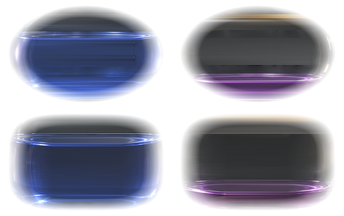
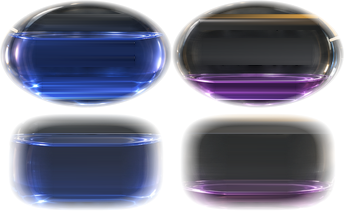
移除标准舷窗周额度文字并校准固定外壳和异形液体材质

Changed region(s): [[0.0, 0.0, 1.0, 0.5], [0.7267, 0.2778, 0.7558, 0.3056]]

diff --git a/src/GeminiTwinChambers.tsx b/src/GeminiTwinChambers.tsx
@@ -21,11 +21,16 @@ interface GeminiTwinChambersProps {
   reducedMotion: boolean;
 }
 
+function quotaLabel(source: Source, period: GeminiPeriod, reading: GeminiReading) {
+  const amount = reading.value === null ? "未读"
+    : (reading.stale ? "上次剩余 " : "剩余 ") + Number(reading.value.toFixed(1)) + "%";
+  return `${source.name} ${periodLabel[period]}，${amount}`;
+}
+
 function QuotaValue({ source, period, reading }: { source: Source; period: GeminiPeriod; reading: GeminiReading }) {
   const percent = reading.value === null ? null : Number(reading.value.toFixed(1)) + "%";
-  const label = percent === null ? "未读" : (reading.stale ? "上次剩余 " : "剩余 ") + percent;
   return <span className="twin-value" data-group={source.key} data-period={period} role="img"
-    aria-label={`${source.name} ${periodLabel[period]}，${label}`}>
+    aria-label={quotaLabel(source, period, reading)}>
     {percent ?? "—"}{reading.stale && percent !== null && <small className="twin-old">上次</small>}
   </span>;
 }
@@ -42,11 +47,13 @@ const ticks = Array.from({ length: 21 }, (_, i) =>
 const standardArc = "M6,51 A61,46 0 0 1 128,51";
 const narrowArc = "M1.5 12 C1.5 4.4 1.5 1.45 5.7 1.4 Q40 .8 74.3 1.4 C78.5 1.45 78.5 4.4 78.5 12";
 
-function WeekScale({ reading, collapsed }: { reading: GeminiReading; collapsed: boolean }) {
+function WeekScale({ reading, collapsed, source }: { reading: GeminiReading; collapsed: boolean; source: Source }) {
   const { value, stale } = reading;
   const arc = collapsed ? narrowArc : standardArc;
   const fraction = (value ?? 0) / 100;
-  return <svg className="twin-scale" aria-hidden="true" viewBox={collapsed ? "0 0 80 46" : "0 0 134 86"}
+  return <svg className="twin-scale" aria-hidden={collapsed || undefined} role={collapsed ? undefined : "img"}
+    aria-label={collapsed ? undefined : quotaLabel(source, "weekly", reading)}
+    viewBox={collapsed ? "0 0 80 46" : "0 0 134 86"}
     preserveAspectRatio="none">
     <path className="twin-rail" d={arc} pathLength={collapsed ? 100 : undefined}
       strokeDasharray={value === null ? (collapsed ? "1.5 3" : "1.4 2.4") : undefined} />
@@ -78,11 +85,11 @@ function SourceInstrument({ source, pools, firstReadPending, collapsed, motion, 
           accent={source.accent} motionSeed={source.seed} motion={motion} reducedMotion={reducedMotion || five.value === null}
           twinGauge={collapsed ? "narrow" : "standard"} />}
       </span>
-      <WeekScale reading={week} collapsed={collapsed} />
+      <WeekScale reading={week} collapsed={collapsed} source={source} />
     </>}
     <b className="twin-source">{isWeb && collapsed ? "Web" : source.name}</b>
     {collapsed ? <>{row("weekly", week)}{row("fiveHour", five)}</>
-      : <>{row("fiveHour", five)}{row("weekly", week)}</>}
+      : <>{row("fiveHour", five)}{isWeb && row("weekly", week)}</>}
   </span>;
 }
 

diff --git a/src/GeminiTwinChambers.css b/src/GeminiTwinChambers.css
@@ -43,9 +43,10 @@
 }
 .gemini-twin--standard .twin-dial[data-pool="partner"]::before { background-position: right center }
 .gemini-twin--standard .twin-cavity {
-  inset: 8% 5.25% 4%; border-radius: 50% / 49%;
+  inset: 8% 5.25% 1%; border-radius: 50% / 49%;
   box-shadow: 0 0 0 1px #121719, 0 0 0 2px #9aa7b338;
 }
+.gemini-twin--standard .twin-dial[data-pool="partner"] .twin-cavity { inset-inline: 4.25% }
 .gemini-twin--standard .twin-cavity::after {
   box-shadow: inset 0 1px 2px #020914a0;
 }
@@ -55,7 +56,7 @@
 .gemini-twin--standard .twin-fill { stroke: #efb75e; stroke-width: 2.3 }
 .gemini-twin--standard .twin-ticks { stroke: #f0d3a48c; stroke-width: .68 }
 .gemini-twin--standard .twin-marker { stroke: #fff6d5; stroke-width: 2.7; stroke-linecap: round; filter: drop-shadow(0 0 1px #23180b) }
-.gemini-twin--standard .twin-dial > :is(.twin-source, .twin-five, .twin-week) {
+.gemini-twin--standard .twin-dial > :is(.twin-source, .twin-five) {
   position: absolute; left: 50%; transform: translateX(-50%); z-index: 1;
   line-height: 1; white-space: nowrap; text-shadow: 0 1px 2px #090e1b, 0 0 3px #090e1b;
 }
@@ -68,14 +69,7 @@
 .gemini-twin--standard .twin-dial > .twin-five { top: 34px; margin-left: 3px; text-shadow: 0 1px 2px #07101a, 0 0 3px #07101a }
 .gemini-twin--standard .twin-five .twin-value { font: italic 21.5px/1 Georgia, serif; color: #f8eddd; font-variant-numeric: lining-nums tabular-nums }
 .gemini-twin--standard .twin-key { color: #e2e9ec; font: 500 8.5px/1 "Segoe UI", "Microsoft YaHei UI", sans-serif; white-space: nowrap }
-.gemini-twin--standard .twin-dial .twin-week {
-  bottom: 5px; gap: 5px; padding: 1px 7px 2px; border-radius: 6px;
-  background: linear-gradient(#1a2731f5, #101a22fa);
-  box-shadow: inset 0 1px #b5b4a04a, inset 0 -1px #b9c3c025, 0 1px 2px #050a10aa;
-}
-.gemini-twin--standard .twin-dial .twin-week:has(.twin-old) { gap: 3px; padding-inline: 5px }
 .gemini-twin--standard .twin-week .twin-key { color: #edcd91 }
-.gemini-twin--standard .twin-week .twin-value { color: #e6bf8b; font: italic 12.5px/1 Georgia, serif; font-variant-numeric: lining-nums tabular-nums }
 .gemini-twin--standard .twin-plaque {
   display: grid; align-items: center; grid-template-columns: max-content 1fr 1fr; gap: 7px;
   width: 96%; margin: 0 auto; padding: 0 9px;

diff --git a/src/twinGlass.ts b/src/twinGlass.ts
@@ -79,7 +79,7 @@ export function drawBakedTwinGlass(
     const position = meniscusPosition(frame / 50, narrow);
     const meniscus = position * height;
     context.save();
-    context.globalAlpha = .96;
+    context.globalAlpha = narrow ? .96 : Math.min(1, frame / 3, (51 - frame) / 2);
     context.globalCompositeOperation = "source-atop";
     const cavityX = Number(violet) * tileWidth + sourceLeft;
     const cavityY = narrow ? tileHeight : 0;
@@ -101,7 +101,7 @@ export function drawBakedTwinGlass(
       context.beginPath();
       context.rect(left, 0, right - left, height);
       context.clip();
-      context.globalAlpha = .5;
+      context.globalAlpha = narrow ? .5 : .19;
       context.globalCompositeOperation = "source-atop";
       const row = (narrow ? 2 : 0) + Number(violet);
       context.drawImage(texture.waterline, 0, row * 16, tileWidth, 16,
@@ -114,10 +114,10 @@ export function drawBakedTwinGlass(
   context.globalCompositeOperation = "source-atop";
   const foot = 4 + (narrow ? 2 : 0) + Number(violet);
   const sampleHeight = height * (narrow ? .22 : .28);
-  context.globalAlpha = Math.min(1, Math.max(0, percent / 21));
+  context.globalAlpha = Math.min(1, Math.max(0, percent / 21)) * (narrow ? 1 : .35);
   context.drawImage(texture.waterline, 0, foot * 16, tileWidth, 16,
     width * .07, height * .95 - sampleHeight, width * .86, sampleHeight);
-  context.globalAlpha = 1;
+  context.globalAlpha = narrow ? 1 : .34;
   context.drawImage(texture.reflections, violet ? tileWidth : 0, layout === "narrow" ? tileHeight : 0,
     tileWidth, tileHeight, 0, 0, width, height);
   context.restore();

diff --git a/src/App.test.tsx b/src/App.test.tsx
@@ -1065,6 +1065,8 @@ describe("Gemini quota source", () => {
       "AG Claude/GPT 5 小时，剩余 24.5%", "AG Claude/GPT 一周，剩余 90%"]) {
       expect(screen.getByRole("img", { name })).toBeVisible();
     }
+    expect(screen.getByRole("img", { name: "AG Gemini 一周，剩余 0%" })).not.toHaveTextContent(/一周|0%/);
+    expect(screen.getByRole("img", { name: "Gemini Web 一周，剩余 75%" })).toHaveTextContent("75%");
     fireEvent.click(screen.getByRole("button", { name: "刷新" }));
     await screen.findByRole("img", { name: "Gemini Web 5 小时，上次剩余 42%" });
     expect(screen.getByRole("img", { name: "Gemini Web 一周，上次剩余 75%" })).toBeVisible();

diff --git a/src/GeminiQuotaSurface.css b/src/GeminiQuotaSurface.css
@@ -96,6 +96,15 @@ body:has(.app-frame--gemini),
   opacity: var(--twin-alpha);
   pointer-events: none;
 }
+.gemini-twin-surface:not(.gemini-twin-surface--narrow)::after {
+  position: absolute;
+  inset: 0;
+  z-index: 2;
+  content: "";
+  background: url("./twin-glass-housing.webp") center / 100% 100% no-repeat;
+  opacity: var(--twin-alpha);
+  pointer-events: none;
+}
 .gemini-twin-footer {
   position: relative;
   isolation: isolate;

diff --git a/scripts/compare-gemini-standard-no-week.py b/scripts/compare-gemini-standard-no-week.py
@@ -1,0 +1,57 @@
+"""Recheck the standard Windows float after removing the two AG weekly badges."""
+import argparse
+import json
+from pathlib import Path
+from statistics import median
+
+from PIL import Image, ImageChops, ImageDraw, ImageStat
+
+
+def erase_badges(reference):
+    revised = reference.copy()
+    # Native 300 × 130 coordinates. Sample only the original glass to either
+    # side of each approved badge. The rest of the artwork stays byte-identical.
+    for left, top, right, bottom in ((48, 65, 107, 81), (192, 65, 253, 81)):
+        patch = Image.new("RGB", (right - left, bottom - top))
+        for y in range(top, bottom):
+            neighbors = ((left - 3, left), (right, right + 3))
+            start, end = [
+                tuple(median(channel) for channel in zip(*(reference.getpixel((x, y)) for x in range(*side))))
+                for side in neighbors
+            ]
+            for x in range(left, right):
+                fraction = (x - left) / (patch.width - 1)
+                pixel = tuple(round(a + (b - a) * fraction) for a, b in zip(start, end))
+                patch.putpixel((x - left, y - top), pixel)
+        mask = Image.new("L", patch.size)
+        ImageDraw.Draw(mask).rounded_rectangle((0, 0, patch.width - 1, patch.height - 1), radius=6, fill=255)
+        revised.paste(patch, (left, top), mask)
+    return revised
+
+
+def measure(actual, reference):
+    difference = ImageChops.difference(actual, reference)
+    pixels = actual.width * actual.height
+    return {
+        "meanRGBChannelAbsoluteDifference": sum(ImageStat.Stat(difference).mean) / 3,
+        "differentPixels": sum(count for count, rgb in difference.getcolors(pixels) if any(rgb)),
+        "comparedPixels": pixels,
+    }
+
+
+parser = argparse.ArgumentParser(description=__doc__)
+parser.add_argument("capture_folder", type=Path)
+folder = parser.parse_args().capture_folder
+with Image.open(folder / "ready-standard-approved.png") as image:
+    reference = image.convert("RGB")
+with Image.open(folder / "ready-standard-actual.png") as image:
+    actual = image.convert("RGB")
+if actual.size != (300, 130) or reference.size != actual.size:
+    parser.error("expected matching 300 × 130 native standard captures")
+
+revised = erase_badges(reference)
+revised.save(folder / "ready-standard-without-badges-approved.png")
+results = {"originalTarget": measure(actual, reference), "targetWithoutTwoBadges": measure(actual, revised)}
+report = json.dumps(results, indent=2) + "\n"
+(folder / "standard-channel-error.json").write_text(report, encoding="utf-8")
+print(report, end="")

diff --git a/scripts/bake-twin-reflections.py b/scripts/bake-twin-reflections.py
@@ -118,6 +118,25 @@ for y in range(90):
         shell.putpixel((x, y), (*rgb, round(255 * opacity)))
 shell.save(root / "src/twin-glass-shell.webp", lossless=True, method=6)
 
+# Register the fixed outside band to the window. Keep a clear gap around
+# the moving gold scales and leave the transparent desktop corners alone.
+housing = Image.new("RGBA", panel.size)
+for y in range(130):
+    for x in range(300):
+        red, green, blue = panel.getpixel((x, y))
+        radius = min(math.hypot((x+.5-center)/72, (y+.5-45)/43) for center in (77, 223))
+        if y < 90:
+            wall = ramp(radius, .88 if y >= 55 else .955, .91 if y >= 55 else .975)
+        else:
+            # Only the separators and exterior edges below the dials are fixed.
+            wall = float(y in (90, 91, 108, 109, 110, 111, 125, 126, 127, 128, 129) or x < 12 or x >= 290)
+        corners = math.hypot(max(0, 17-min(x+.5,299.5-x)), max(0, 17-min(y+.5,129.5-y)))
+        alpha = wall * (1-ramp(corners, 14.5, 16))
+        if radius < 1 and y < 55 and red - min(green, blue) > 18:
+            alpha = 0
+        housing.putpixel((x,y), (red,green,blue,round(255*alpha)))
+housing.save(root / "src/twin-glass-housing.webp", lossless=True, method=6)
+
 compact = sheet.crop((194, 626, 1577, 852)).resize((260, 48), Image.Resampling.LANCZOS)
 plaque = compact.crop((194, 1, 258, 47))
 for y in range(1, 44):

diff --git a/scripts/bake-twin-cavity.py b/scripts/bake-twin-cavity.py
@@ -32,9 +32,10 @@ for index, (box, text) in enumerate(zip(bounds, letter_boxes)):
     y,x = np.meshgrid(np.linspace(-1,1,108),np.linspace(-1,1,172),indexing="ij")
     if index < 2:
         dist = (np.abs(x)**2 + np.abs(y)**2)**.5
+        opacity = np.clip((1.01-dist)/.13,0,1)*250
     else:
         dist = (np.abs(x)**3.7 + np.abs(y)**3.7)**(1/3.7)
-    opacity = np.clip((.91-dist)/.23,0,1)
-    layer = Image.fromarray(np.rint(np.dstack((material,opacity*225))).astype("uint8"))
+        opacity = np.clip((.91-dist)/.23,0,1)*225
+    layer = Image.fromarray(np.rint(np.dstack((material,opacity))).astype("uint8"))
     sheet.paste(layer,((index%2)*172,(index//2)*108))
 sheet.save(root / "src/twin-glass-cavity.webp", lossless=True, method=6)
